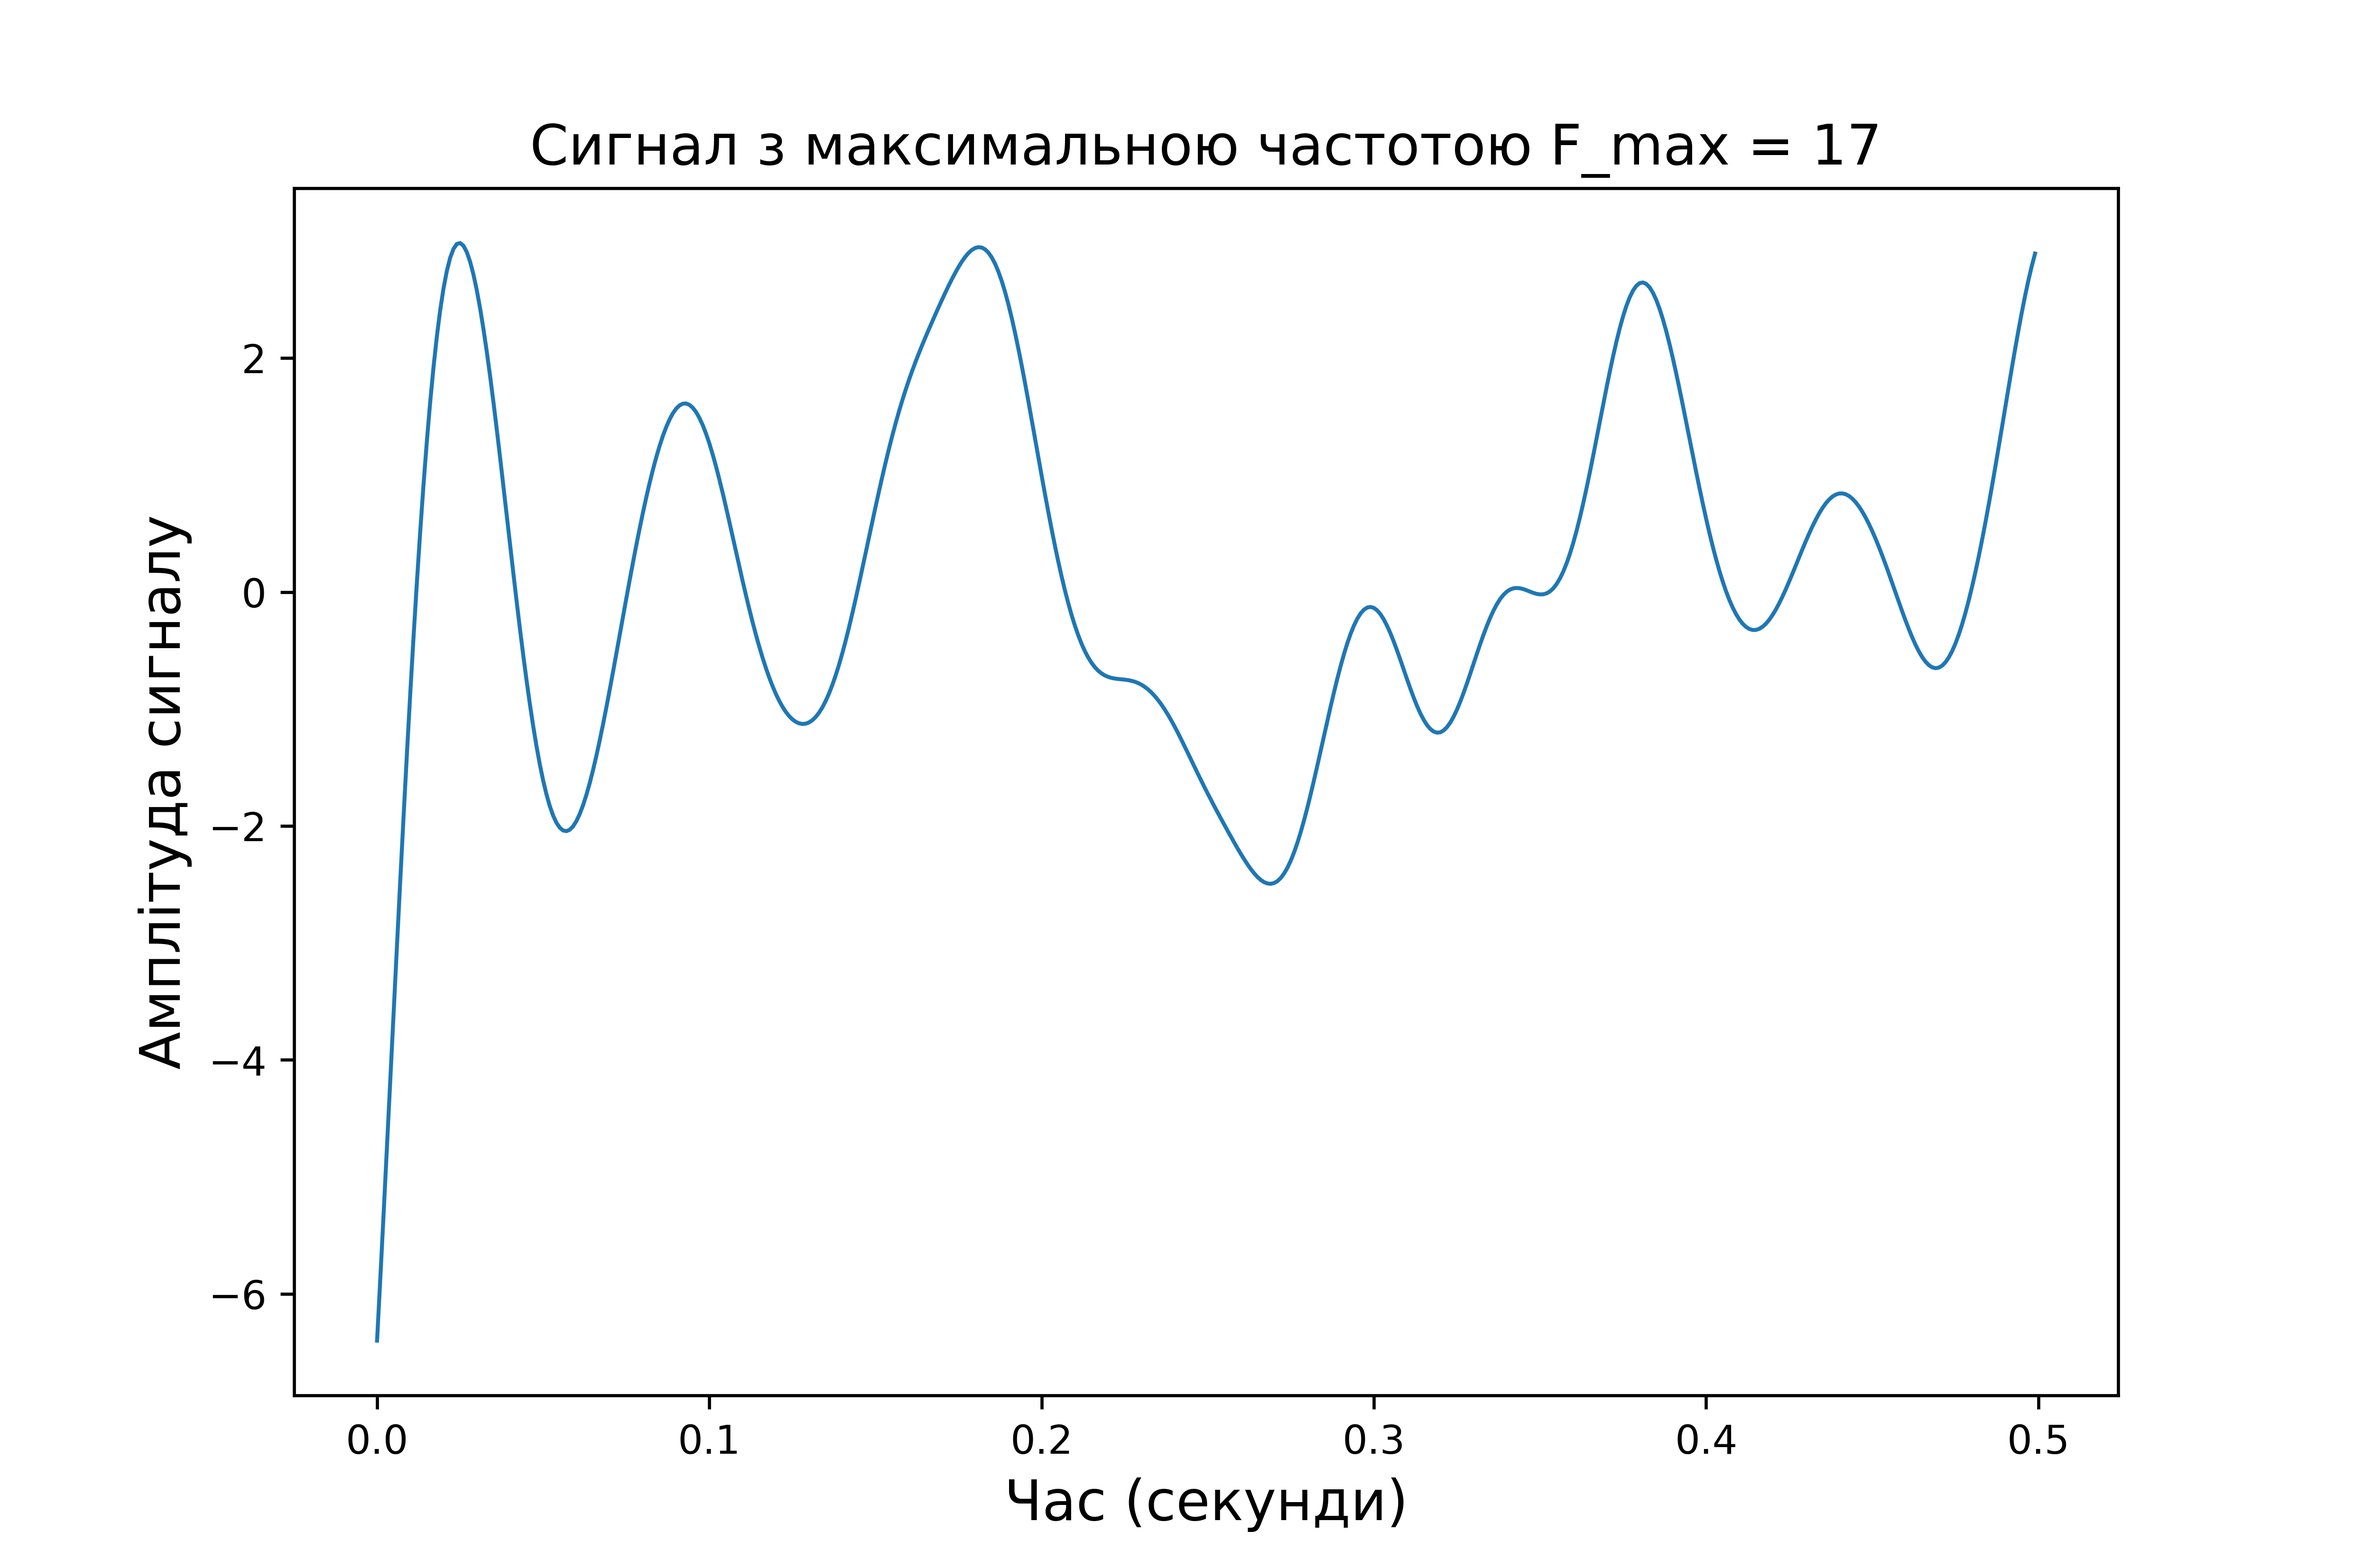
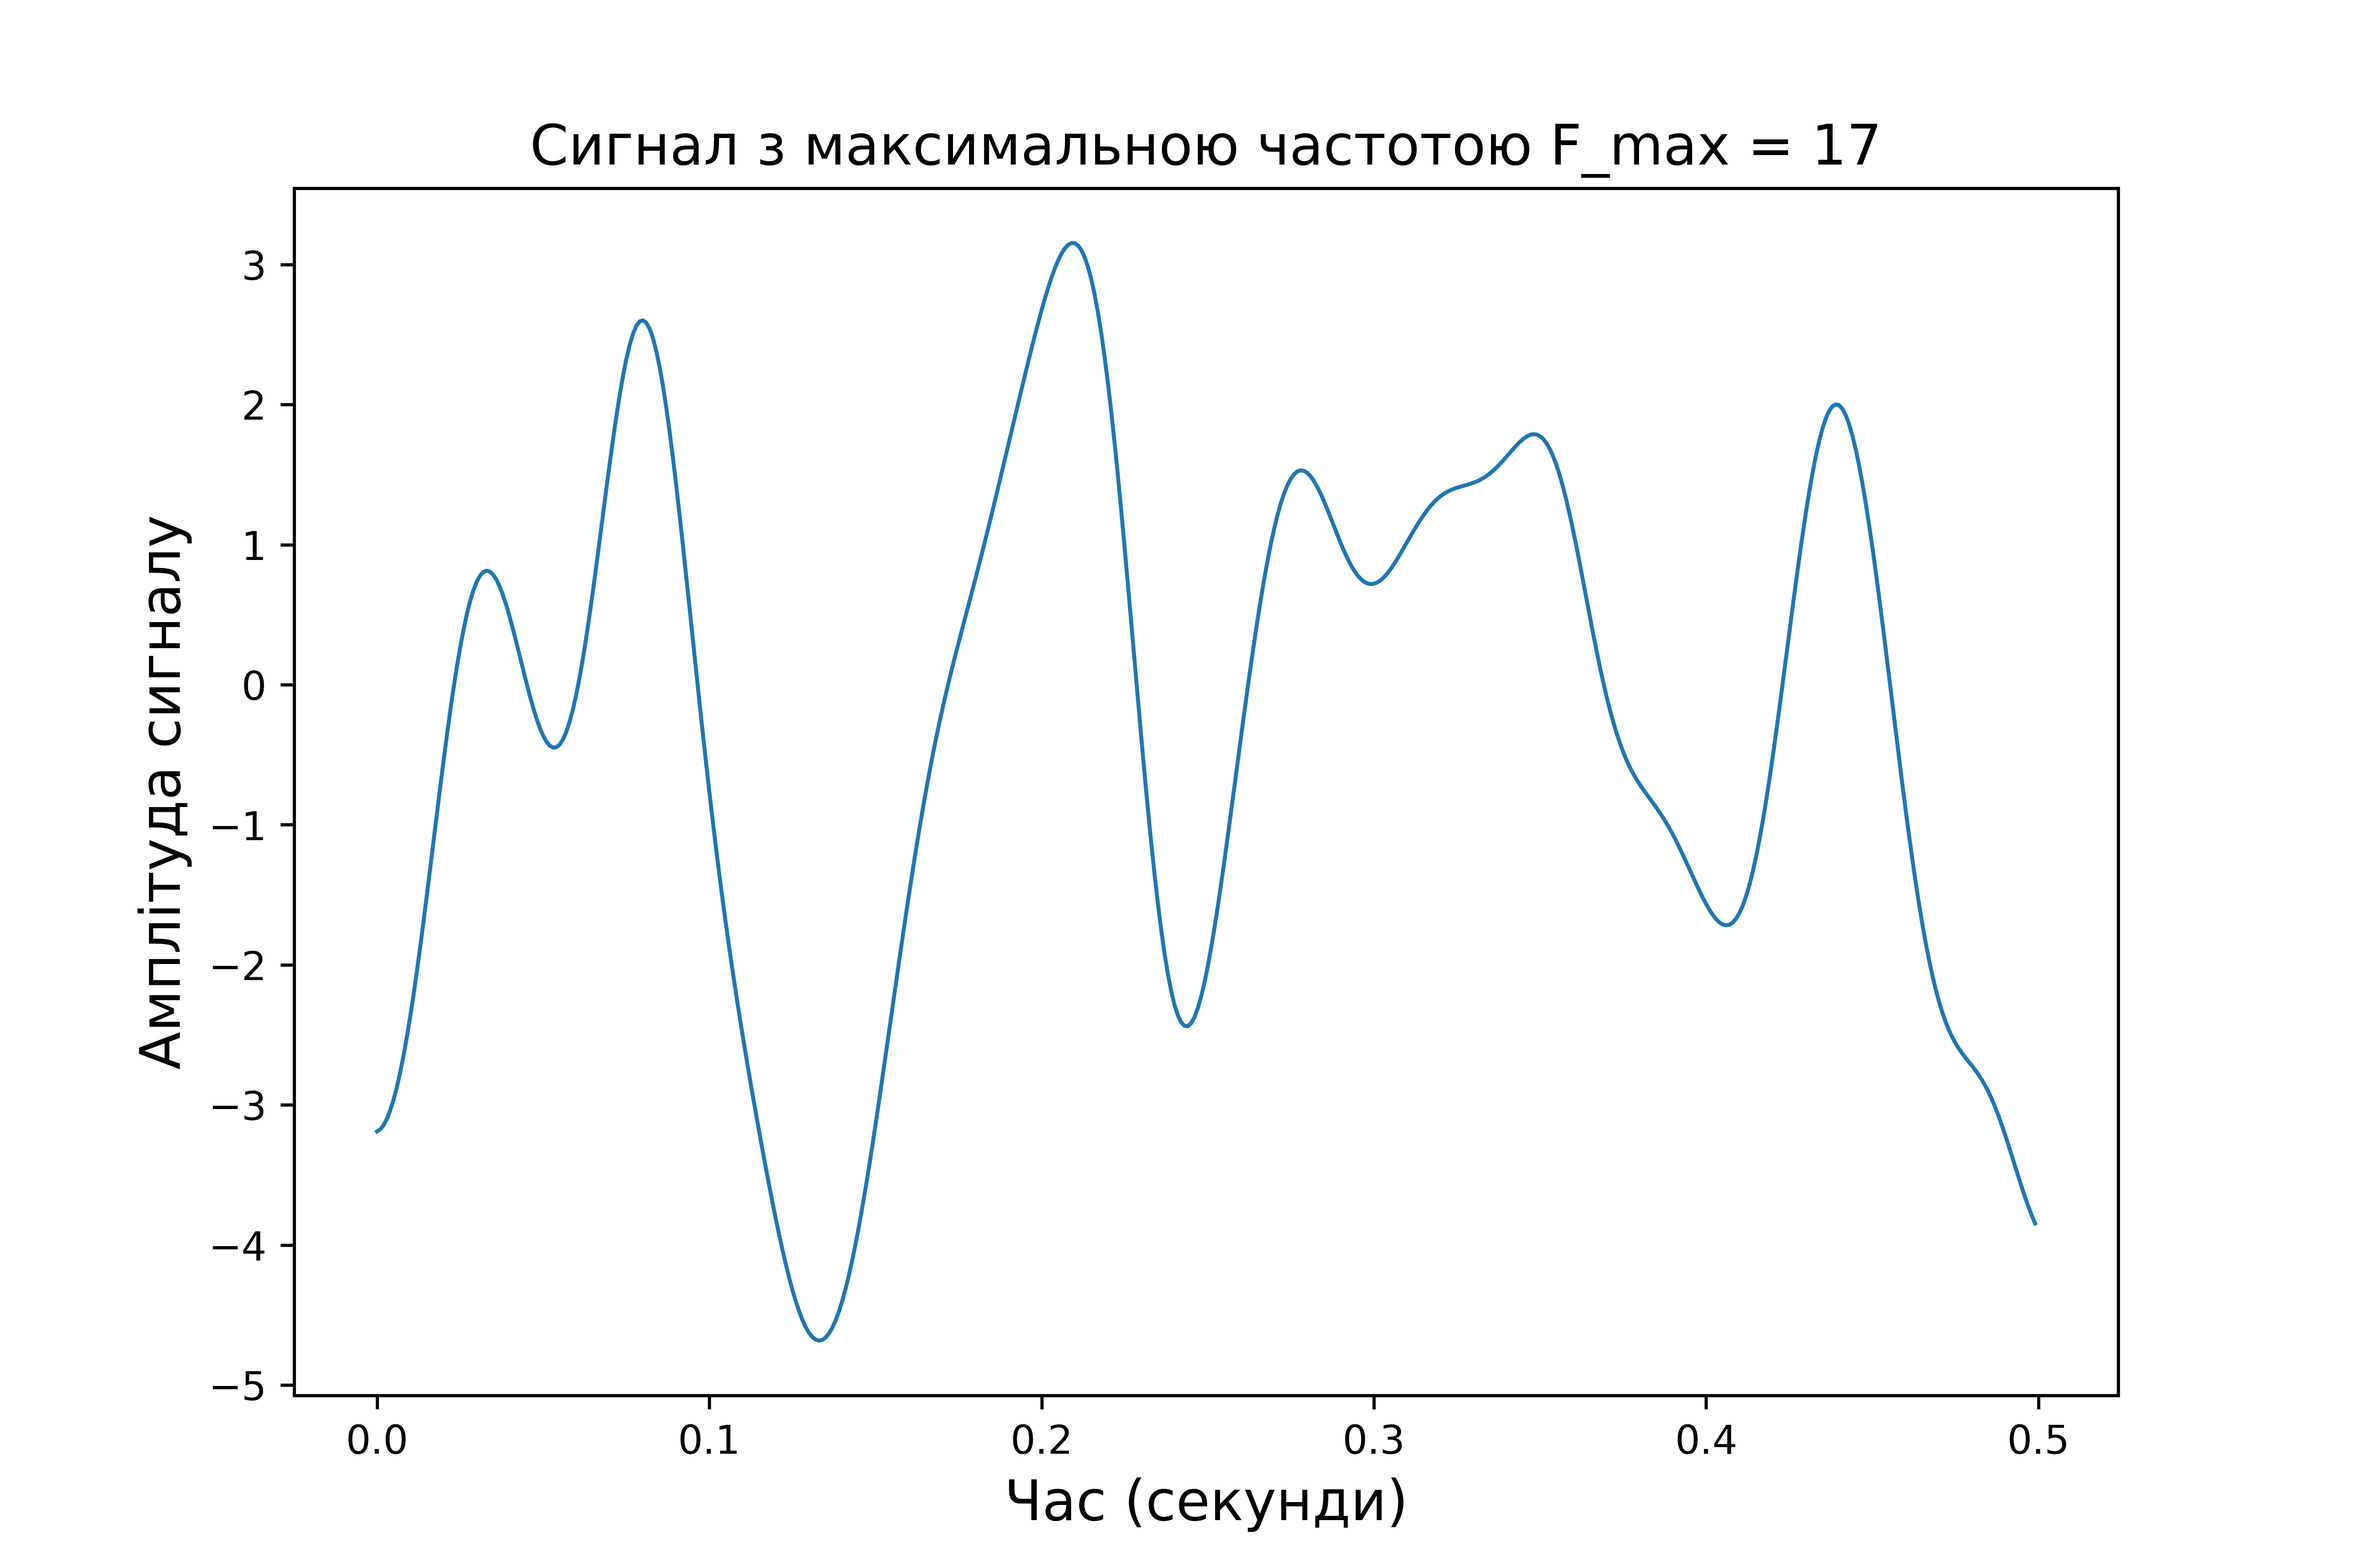
Signal Processing, 2

diff --git a/SignalProcessing/SignalProcessing.py b/SignalProcessing/SignalProcessing.py
@@ -7,6 +7,7 @@ b = 10
 n = 500
 Fs = 1000
 F_max = 17
+F_filter = 24
 # Signal generation
 x = numpy.random.normal(a, b, n)
 # Determination of time counts
@@ -33,3 +34,84 @@ ax.set_xlabel("Частота (Гц)", fontsize=14)
 ax.set_ylabel("Амплітуда сигналу", fontsize=14)
 plt.title("Сигнал з максимальною частотою F_max = 17", fontsize=14)
 fig.savefig("./figures/" + "Спектр сигналу з максимальною частотою F_max = 17" + ".png", dpi=600)
+
+# practice 3
+discrete_signals = []
+discrete_spectrums = []
+filtered_signals = []
+dispersion_dif = []
+signal_noise = []
+for Dt in [2, 4, 8, 16]:
+    discrete_signal = numpy.zeros(n)
+    for i in range(0, round(n / Dt)):
+        discrete_signal[i * Dt] = y[i * Dt]
+    discrete_signals += [list(discrete_signal)]
+    # signal spectra
+    spectrum = scipy.fft.fft(discrete_signal)
+    t_spectrum = numpy.abs(scipy.fft.fftshift(spectrum))
+    discrete_spectrums += [list(t_spectrum)]
+    # restoration of the initial signal
+    w = F_filter / (Fs / 2)
+    parameters_filter = signal.butter(3, w, 'low', output='sos')
+    filtered_signal = signal.sosfiltfilt(parameters_filter, discrete_signal)
+    filtered_signals += [list(filtered_signal)]
+    # variance calculation and signal-to-noise ratio
+    E1 = filtered_signal - y
+    dispersion_1 = numpy.var(y)
+    dispersion_2 = numpy.var(E1)
+    dispersion_dif += [dispersion_2]
+    signal_noise += [dispersion_1 / numpy.var(E1)]
+
+fig, ax = plt.subplots(2, 2, figsize=(21 / 2.54, 14 / 2.54))
+s = 0
+for i in range(0, 2):
+    for j in range(0, 2):
+        ax[i][j].plot(time, discrete_signals[s], linewidth=1)
+        s += 1
+
+fig.supxlabel("Час (секунди)", fontsize=14)
+fig.supylabel("Амплітуда сигналу", fontsize=14)
+fig.suptitle("Сигнал з кроком дискретизації Dt = (2, 4, 8, 16)", fontsize=14)
+fig.savefig("./figures/" + "Сигнал з кроком дискретизації Dt = (2, 4, 8, 16)" + ".png", dpi=600)
+
+#  Displaying the results of signal spectra
+fig, ax = plt.subplots(2, 2, figsize=(21 / 2.54, 14 / 2.54))
+s = 0
+for i in range(0, 2):
+    for j in range(0, 2):
+        ax[i][j].plot(readings, discrete_spectrums[s], linewidth=1)
+        s += 1
+fig.supxlabel("Частота (Гц)", fontsize=14)
+fig.supylabel("Амплітуда сигналу", fontsize=14)
+fig.suptitle("Спектри сигнал з кроком дискретизації Dt = (2, 4, 8, 16)", fontsize=14)
+fig.savefig("./figures/" + "Спектри сигнал з кроком дискретизації Dt = (2, 4, 8, 16)" + ".png", dpi=600)
+
+# Displaying the results of restoring the initial signal
+fig, ax = plt.subplots(2, 2, figsize=(21 / 2.54, 14 / 2.54))
+s = 0
+for i in range(0, 2):
+    for j in range(0, 2):
+        ax[i][j].plot(time, filtered_signals[s], linewidth=1)
+        s += 1
+fig.supxlabel("Час (секунди)", fontsize=14)
+fig.supylabel("Амплітуда сигналу", fontsize=14)
+fig.suptitle("Відновлені аналогові сигнали з кроком дискретизації Dt = (2, 4, 8, 16)", fontsize=14)
+fig.savefig("./figures/" + "Відновлені аналогові сигнали з кроком дискретизації Dt = (2, 4, 8, 16)" + ".png", dpi=600)
+
+# Display of the dependence of the variance of the difference of the reconstructed signal and
+# initial from the discretization step
+X = [2, 4, 8, 16]
+fig, ax = plt.subplots(figsize=(21 / 2.54, 14 / 2.54))
+ax.plot(X, dispersion_dif, linewidth=1)
+ax.set_xlabel("Крок дискретизації", fontsize=14)
+ax.set_ylabel("Дисперсія", fontsize=14)
+plt.title("Сигнал з максимальною частотою F_max = 17", fontsize=14)
+fig.savefig("./figures/" + "Залежність дисперсії від кроку дискретизації" + ".png", dpi=600)
+
+# Display of the signal-to-noise ratio from the variance
+fig, ax = plt.subplots(figsize=(21 / 2.54, 14 / 2.54))
+ax.plot(X, signal_noise, linewidth=1)
+ax.set_xlabel("Крок дискретизації", fontsize=14)
+ax.set_ylabel("ССШ", fontsize=14)
+plt.title("Сигнал з максимальною частотою F_max = 17", fontsize=14)
+fig.savefig("./figures/" + "Залежність співвідношення сигнал-шум від кроку дискретизації" + ".png", dpi=600)
